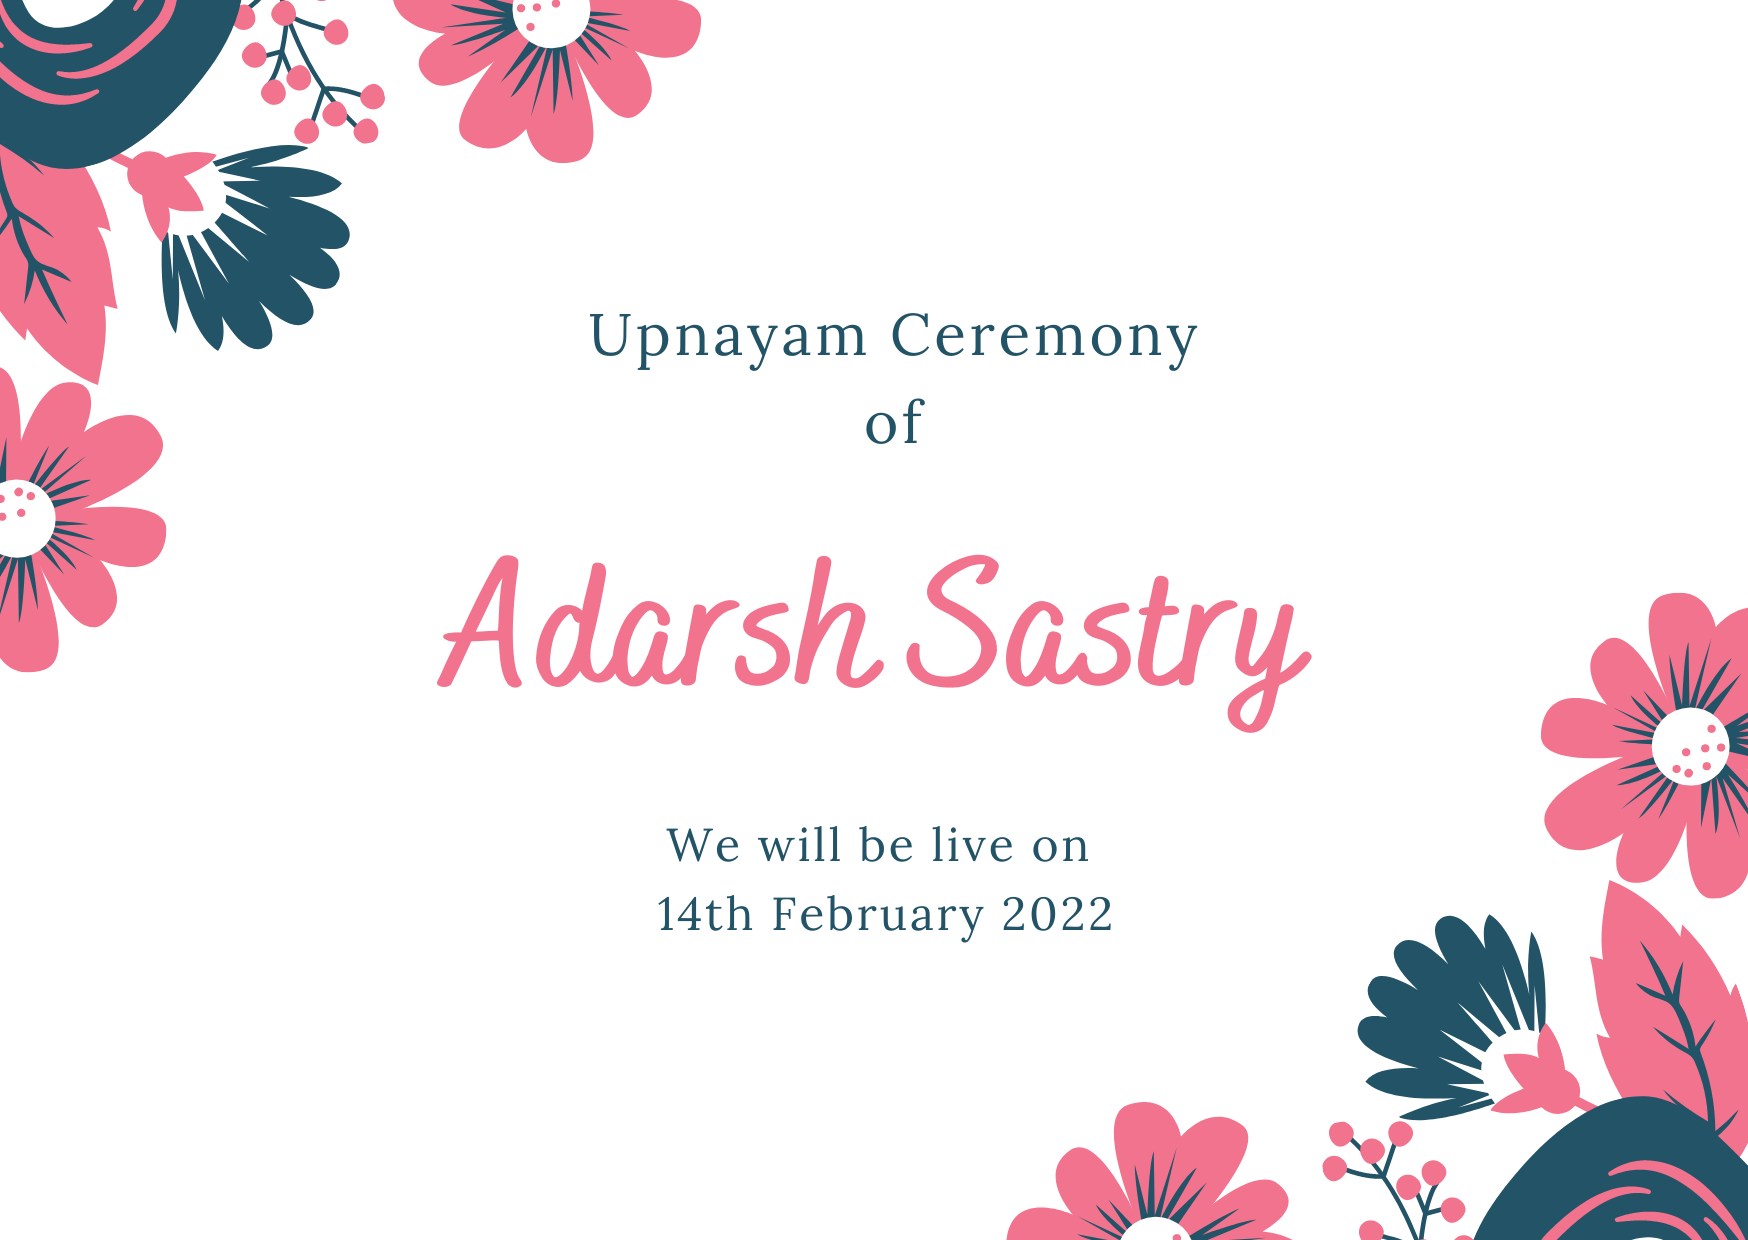
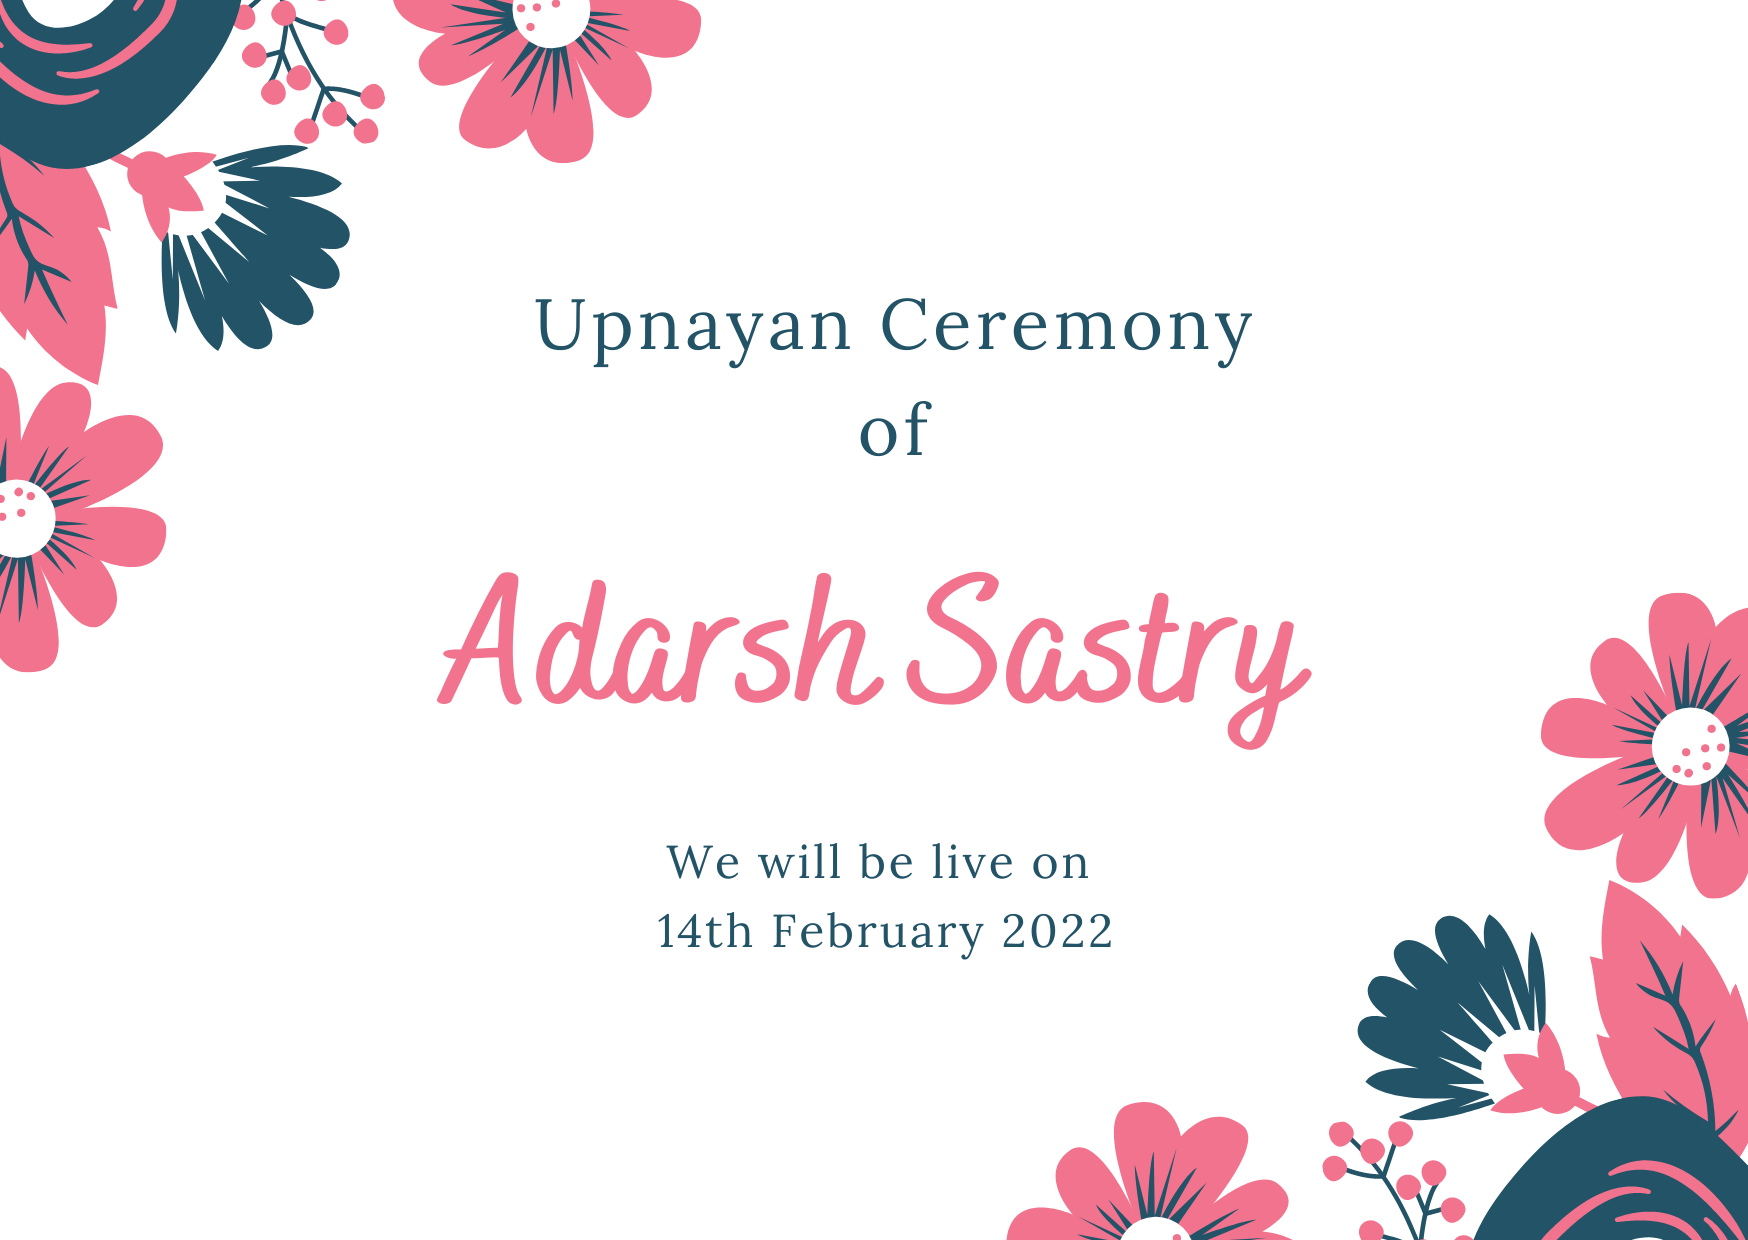
commit

diff --git a/index.html b/index.html
@@ -47,7 +47,7 @@
                     alt="" class="vhall-logo" /><a href="#contact-form" class="hero-nav-button w-button">CONTACT US</a></div>
             <div class="hero-name-div">
                 <div data-w-id="deaa141e-09cd-3387-d166-96991c2f11a7" class="header-div">
-                    <p class="the-wedding-of" style="font-family: Akaya Kanadaka;font-size: 30px;">Upnayam Ceremony</p>
+                    <p class="the-wedding-of" style="font-family: Akaya Kanadaka;font-size: 30px;">Upnayan Ceremony</p>
                     <h1 class="bride-header" style="font-family: Akaya Kanadaka;font-size: 40px;">of</h1>
                     <!--<h1 class="heading">and</h1>-->
                     <h1 class="bride-header groom" style="font-family: Akaya Kanadaka;font-size: 40px;">Adarsh Sastry</h1>
